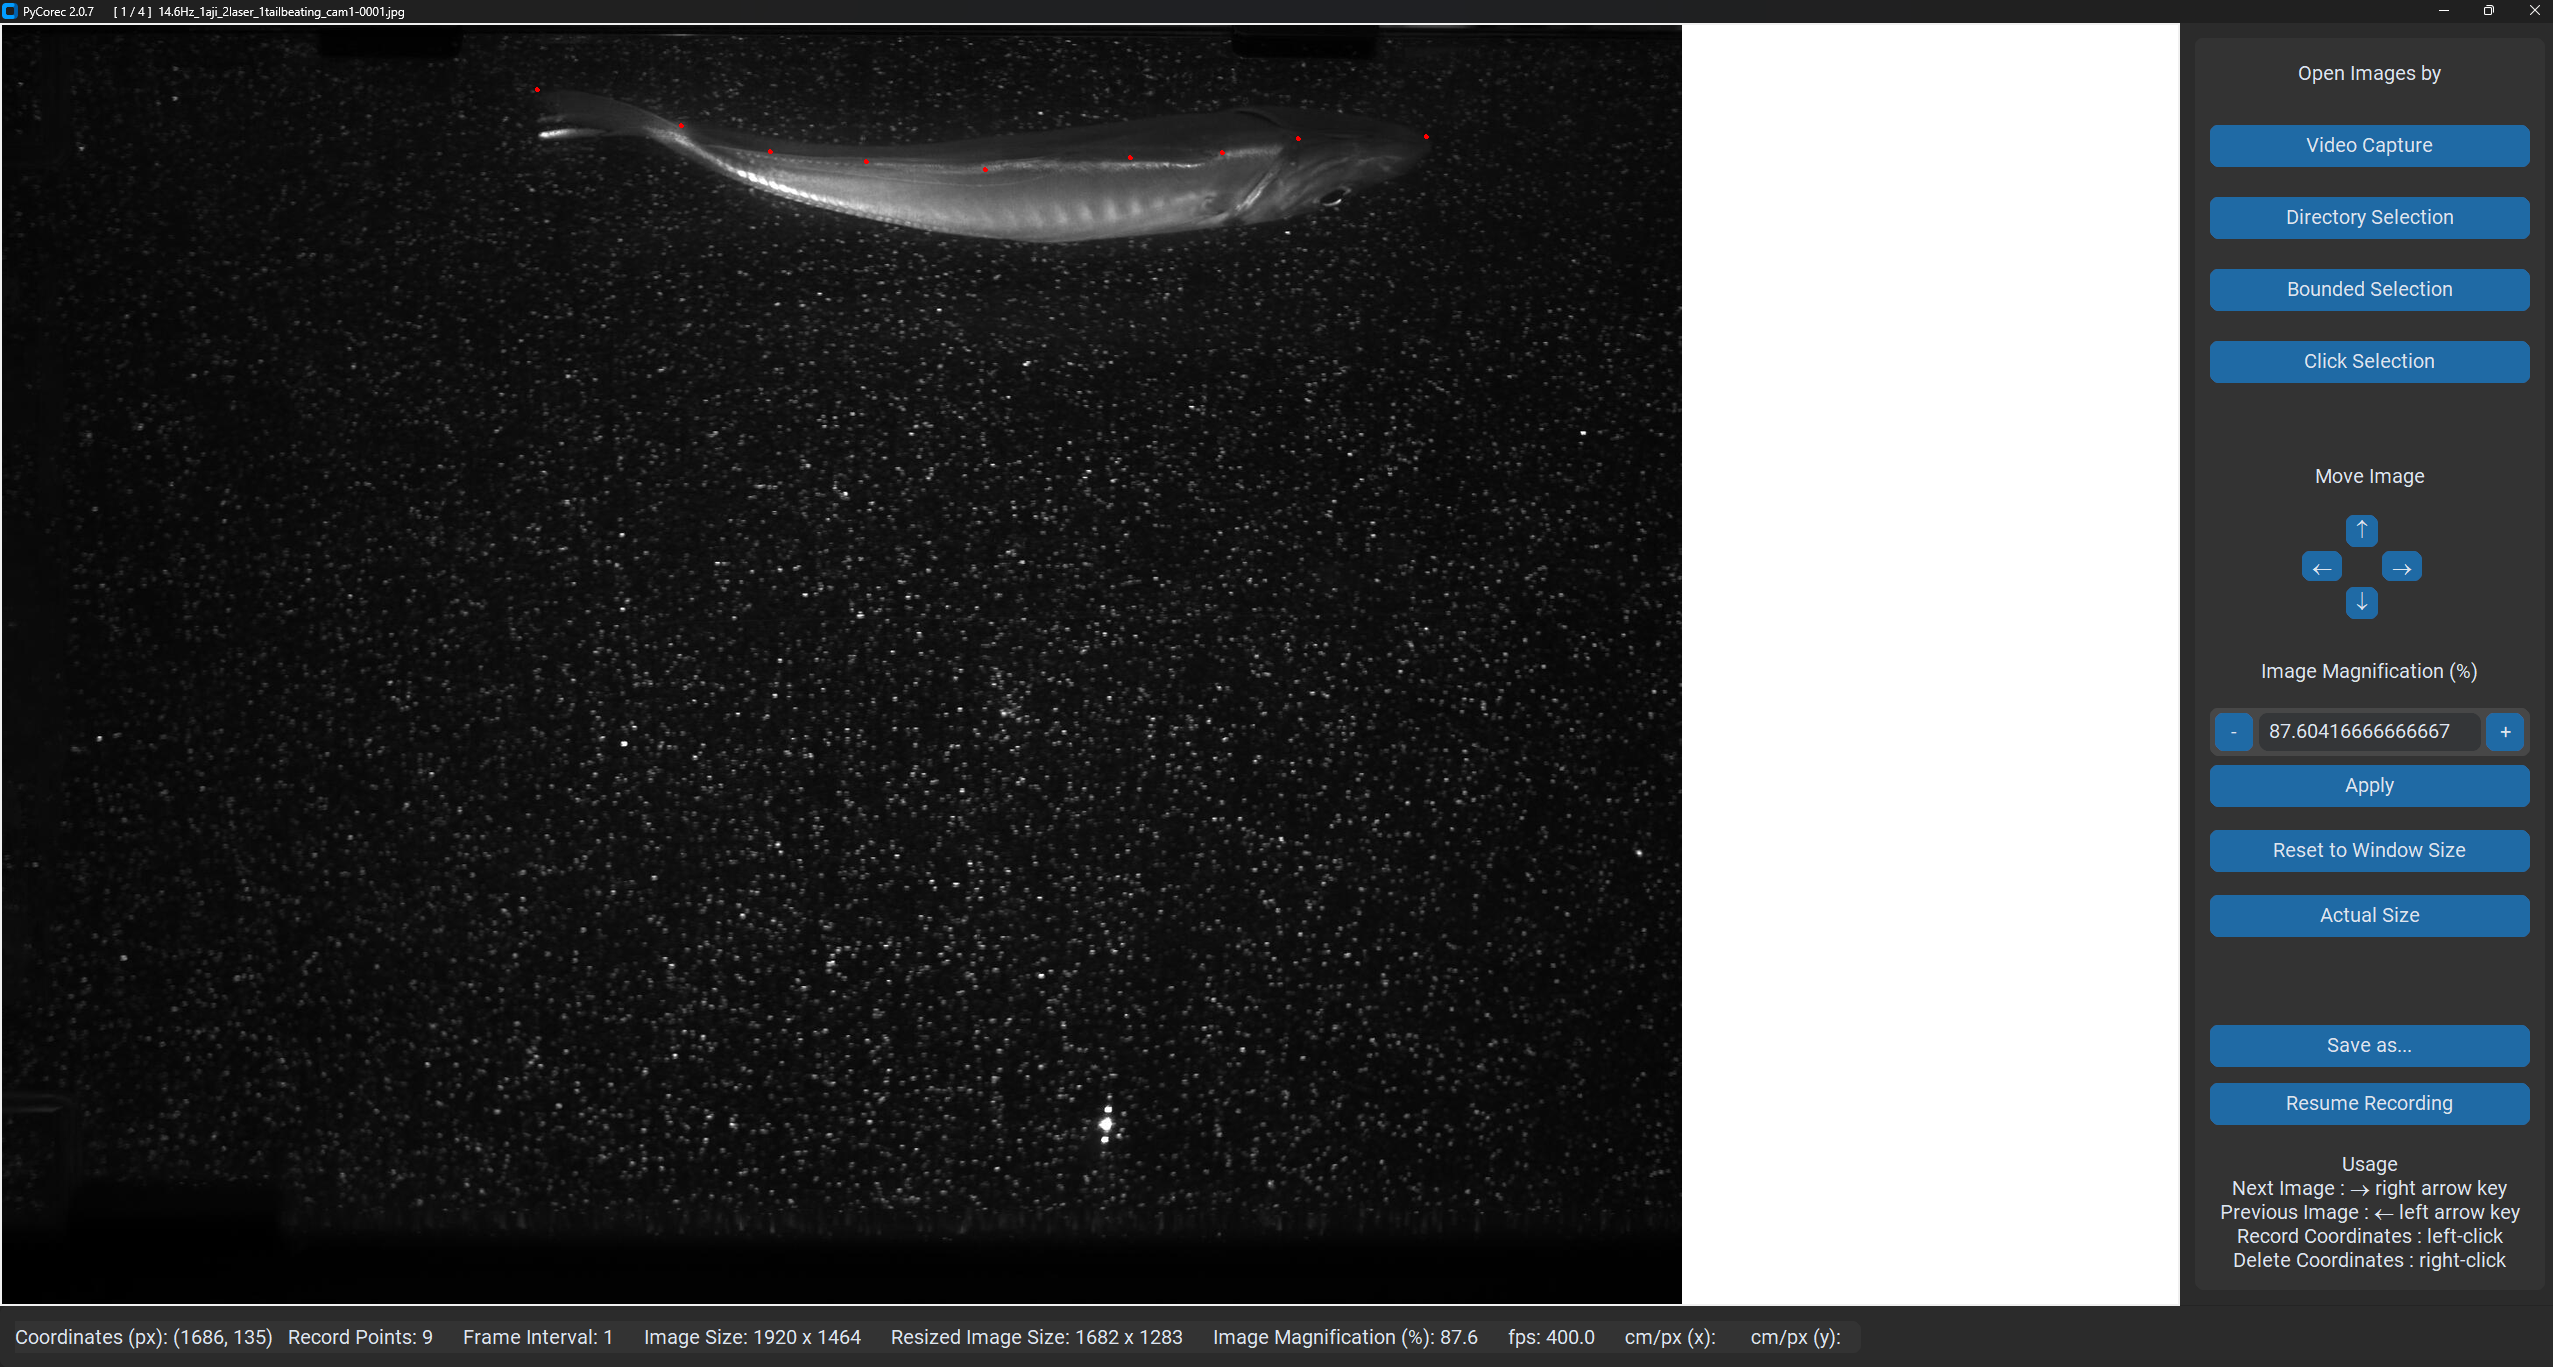
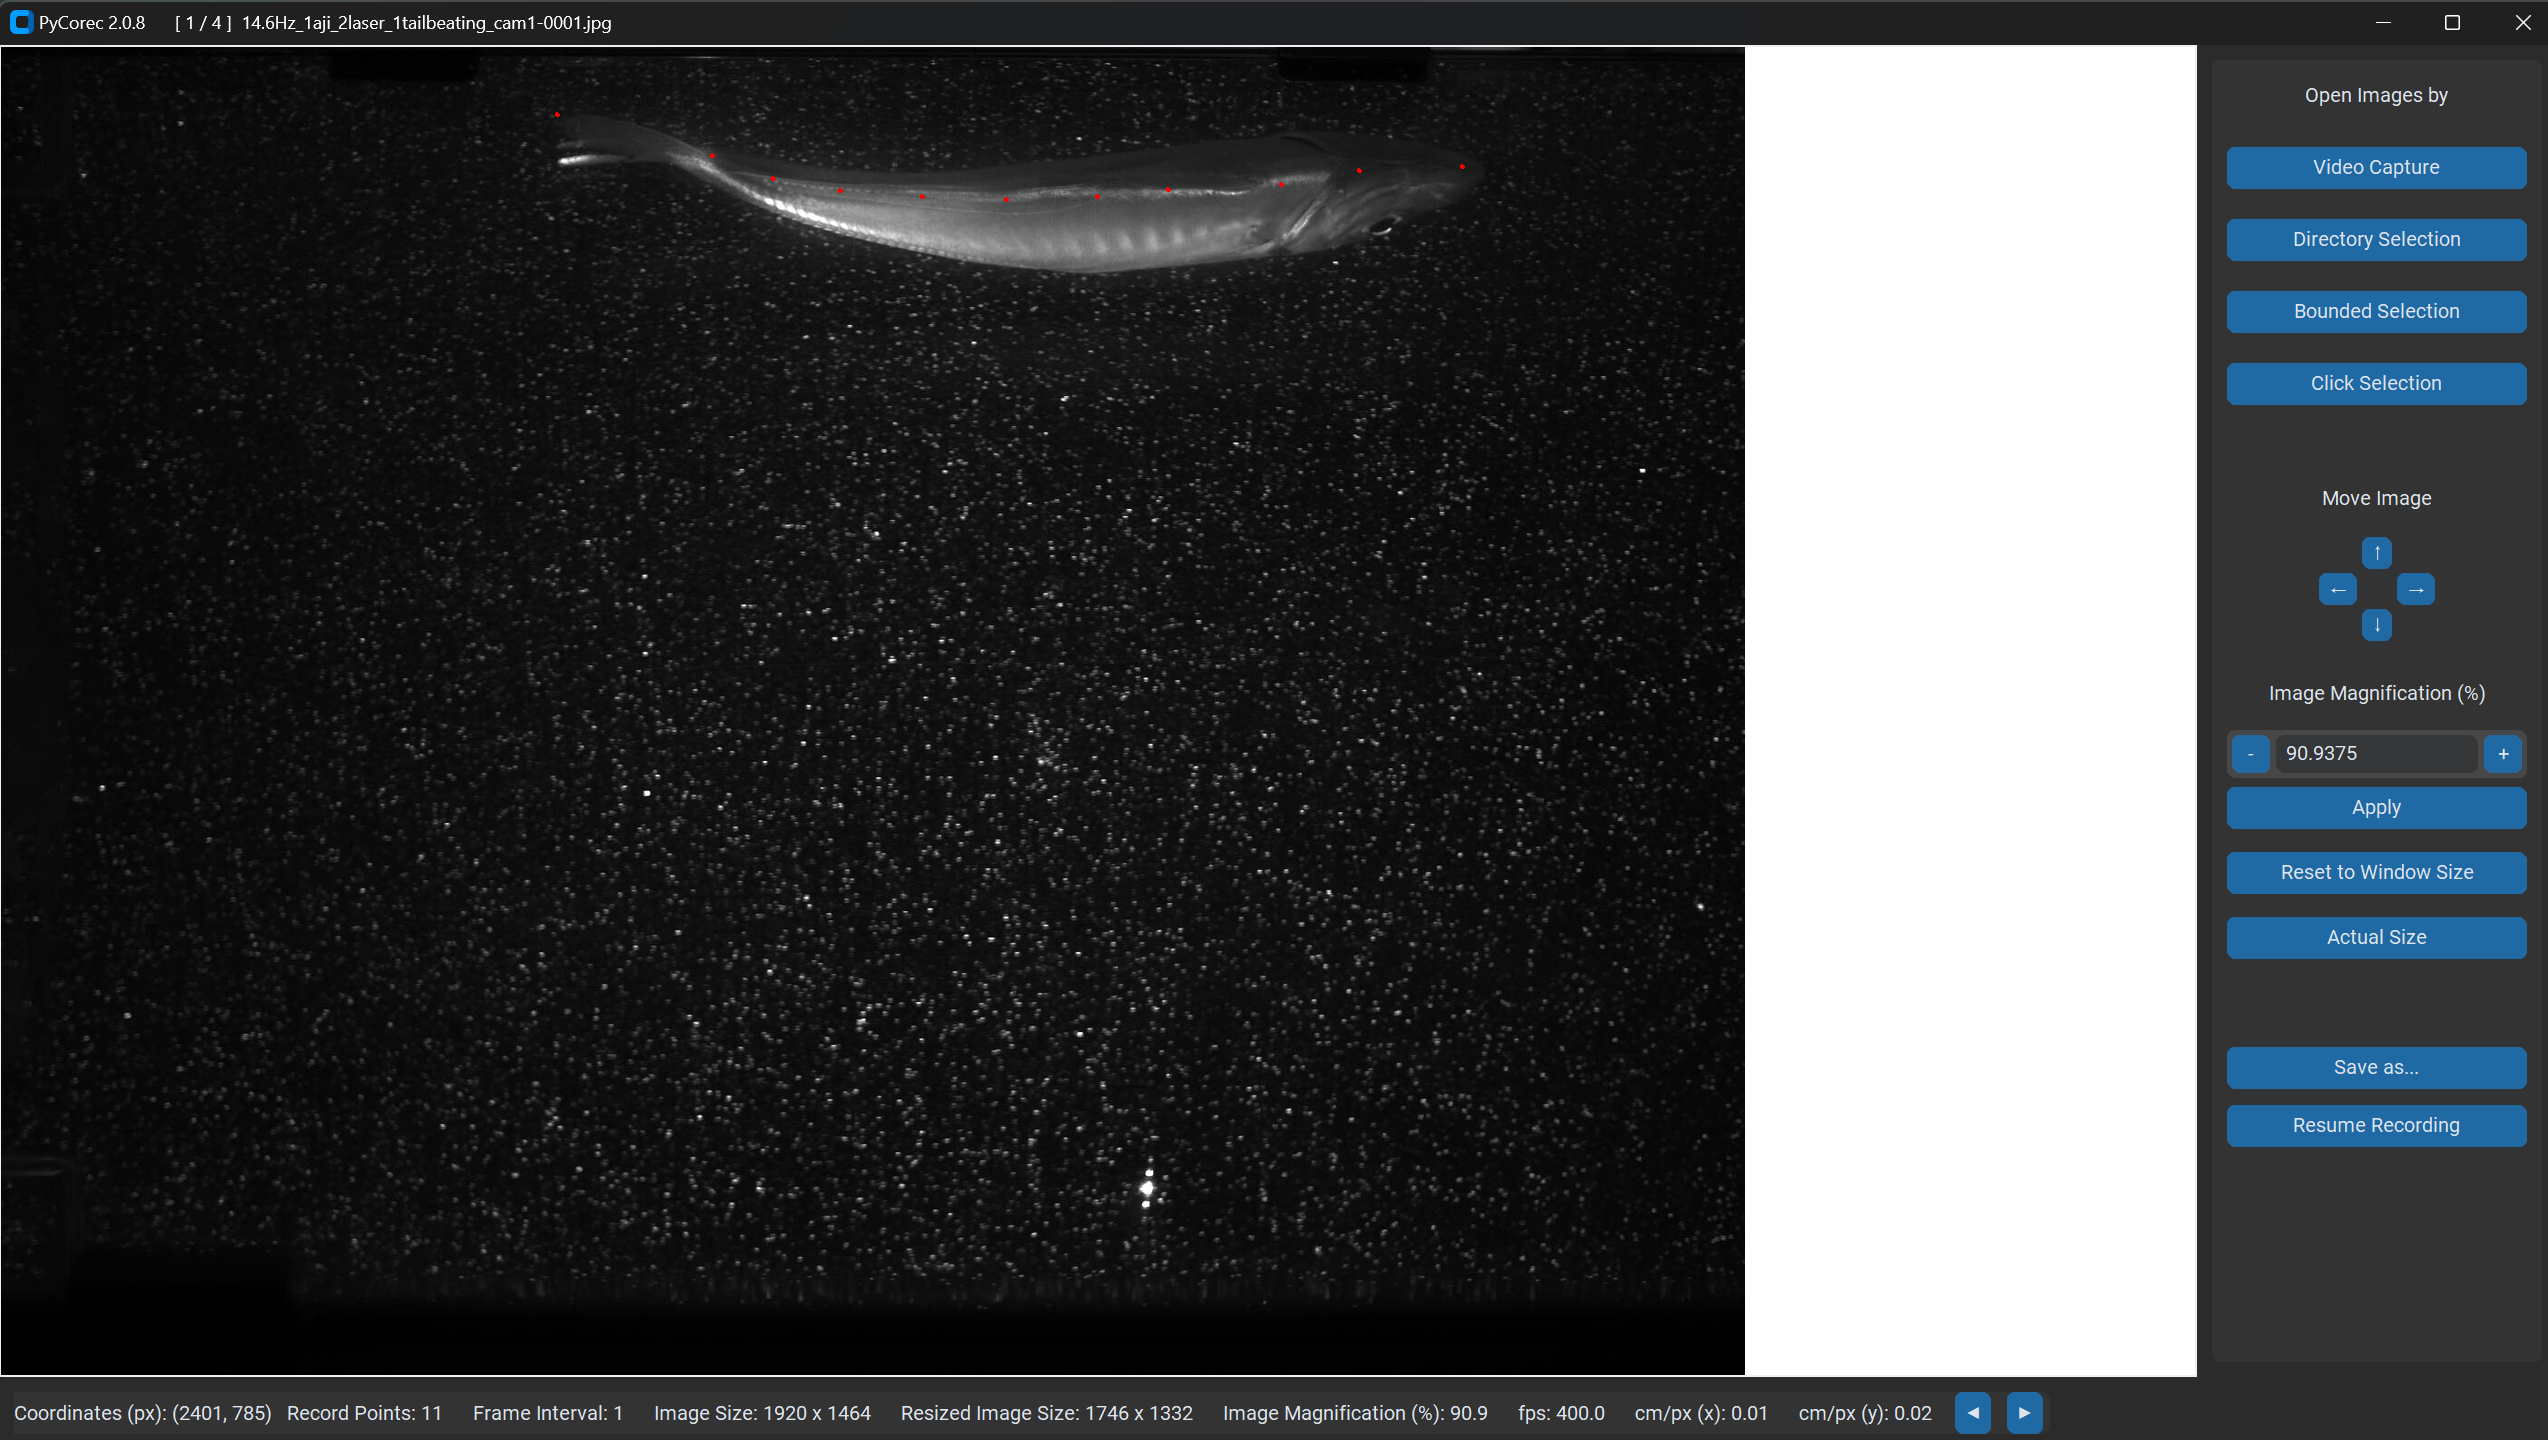
release 2.0.8
* Add image transition button and remove usage instructions text.

diff --git a/pycorec/pycorec.py b/pycorec/pycorec.py
@@ -16,7 +16,7 @@ from PIL import Image, ImageTk  # pip install pillow
 from screeninfo import get_monitors  # pip install screeninfo
 from styleframe import StyleFrame, Styler  # pip install styleframe
 
-pycorec_version = '2.0.7'
+pycorec_version = '2.0.8'
 
 
 class PyCorec:
@@ -127,6 +127,14 @@ class PyCorec:
         self.cm_per_px_y_label = customtkinter.CTkLabel(self.label_frame, text='cm/px (y): ')
         self.cm_per_px_y_label.pack(side=customtkinter.LEFT, padx=10)
 
+        self.previous_image_button = customtkinter.CTkButton(self.label_frame, text='◀', width=10,
+                                                             command=self.previous_image)
+        self.previous_image_button.pack(side=customtkinter.LEFT, padx=5)
+
+        self.next_image_button = customtkinter.CTkButton(self.label_frame, text='▶', width=10,
+                                                         command=self.next_image)
+        self.next_image_button.pack(side=customtkinter.LEFT, padx=5)
+
         #  buttons
         self.button_frame = customtkinter.CTkFrame(self.frame)
         self.button_frame.pack(side=customtkinter.RIGHT, fill=customtkinter.Y, padx=10, pady=10)
@@ -190,14 +198,6 @@ class PyCorec:
         self.resume_recording_button = customtkinter.CTkButton(self.button_frame, text='Resume Recording',
                                                                command=self.resume_recording)
         self.resume_recording_button.pack(fill=customtkinter.X, padx=10, pady=5)
-
-        self.blank_button = customtkinter.CTkButton(self.button_frame, text='Usage\n'
-                                                                            'Next Image : → right arrow key\n'
-                                                                            'Previous Image : ← left arrow key\n'
-                                                                            'Record Coordinates : left-click\n'
-                                                                            'Delete Coordinates : right-click',
-                                                    fg_color='transparent', hover=False)
-        self.blank_button.pack(fill=customtkinter.X, padx=10, pady=10)
 
         #  canvas
         self.canvas.bind('<Button-1>', self.on_canvas_left_click)

diff --git a/setup.py b/setup.py
@@ -46,6 +46,6 @@ setup(
     test_suite='tests',
     tests_require=test_requirements,
     url='https://github.com/tnku10/pycorec',
-    version='2.0.7',
+    version='2.0.8',
     zip_safe=False,
 )

diff --git a/pycorec/__init__.py b/pycorec/__init__.py
@@ -2,4 +2,4 @@
 
 __author__ = """Yuto Tanaka"""
 __email__ = 'tanaka.yuto.u10@gmail.com'
-__version__ = '2.0.7'
+__version__ = '2.0.8'

diff --git a/README.rst b/README.rst
@@ -4,7 +4,7 @@ PyCorec
 
 | Python Coordinates Recoder for Sequence Images (PyCorec)
 
-| Version 2.0.7 (2023-11-30)
+| Version 2.0.8 (2023-11-30)
 
 | PyCorec is a python GUI application that can read images with sequential numbers in the same file name, display them in numerical order, and record the coordinate points on the image using mouse operations.
 
@@ -133,6 +133,10 @@ Save the coordinate data 💾
 
 Release
 ------------------
+| Version 2.0.8 (2023-11-30)
+
+* Add image transition button and remove usage instructions text.
+
 | Version 2.0.7 (2023-11-30)
 
 * Enable to read video and get frames.
